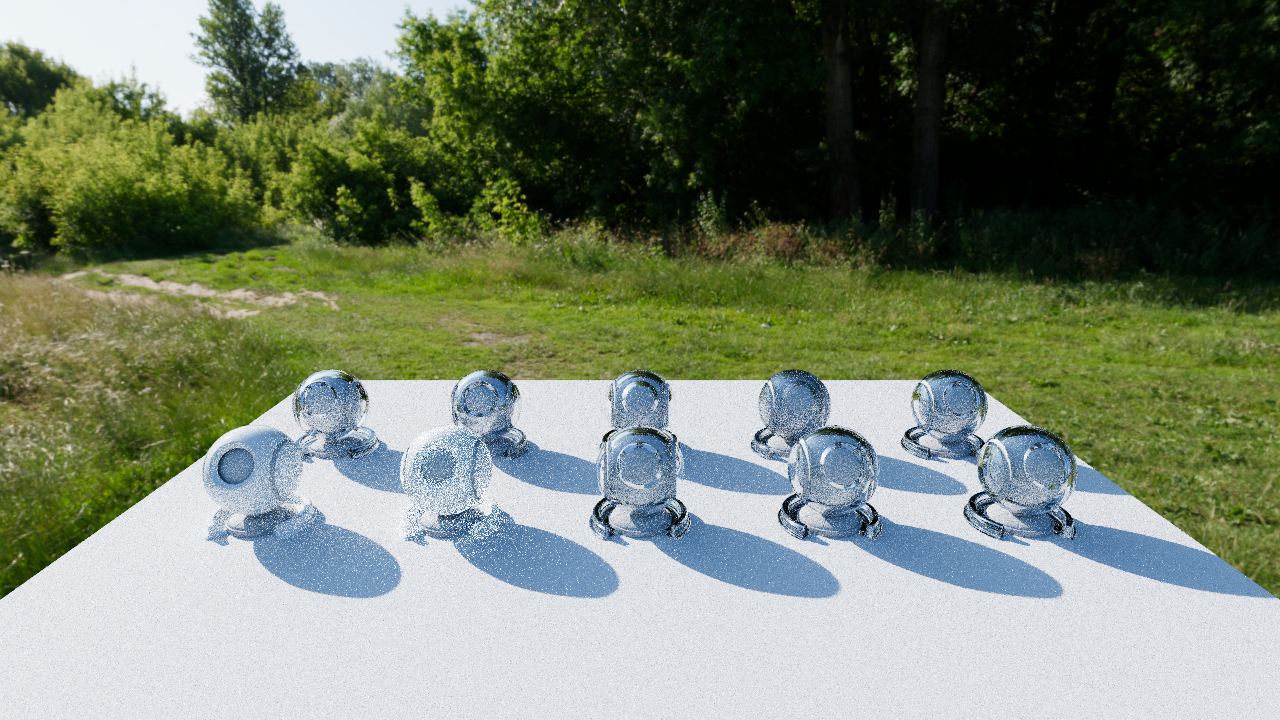
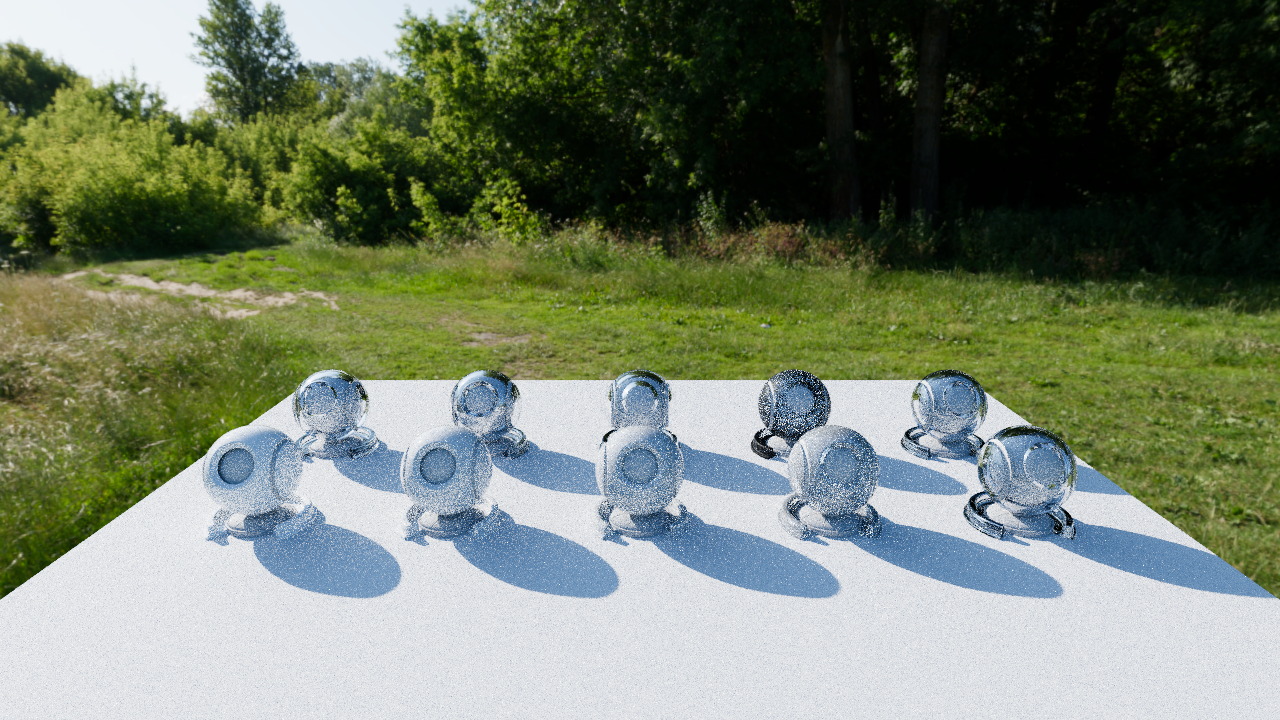
test: expand OpenPBR conformance and refresh gallery

Changed region(s): [[0.3125, 0.5194, 0.7188, 0.7944], [0.375, 0.55, 0.4062, 0.5806]]

diff --git a/tests/unit/test_bsdf.cpp b/tests/unit/test_bsdf.cpp
@@ -99,26 +99,25 @@ struct LobeWeights {
 
     const float opacity = sm::saturate(mat.opacityFlagsPad.x);
     const std::uint32_t flags = static_cast<std::uint32_t>(mat.opacityFlagsPad.y);
-    const bool glassMode = (flags == 2u);
 
     const float baseWeight = sm::saturate(mat.baseColorWeight.w);
     const float metalness = flags == 1u ? 1.0F : sm::saturate(mat.baseMetalnessDiffRough.x);
-    const float transmission = glassMode ? 1.0F : sm::saturate(mat.transmissionColorWeight.w);
+    const float transmission = sm::saturate(mat.transmissionColorWeight.w);
+    const bool glassMode = transmission >= 1.0F && metalness <= 0.0F && mat.specularRoughAnisoIor.x < 0.05F;
     weights.coatWeight = sm::saturate(mat.coatColorWeight.w);
     weights.fuzzWeight = sm::saturate(mat.fuzzColorWeight.w);
-    weights.subsurfaceWeight = sm::saturate(mat.subsurfaceColorWeight.w) * (1.0F - transmission);
-    const float opaqueBase = baseWeight * (1.0F - transmission);
-    weights.diffuseWeight = opaqueBase * (1.0F - metalness) * (1.0F - weights.subsurfaceWeight);
-    // G3 (spec): specular_weight modulates the dielectric F0/eta (see the modulated eta below), NOT
-    // the dielectric lobe weight; for the metal base it is applied directly as the metal BSDF weight.
-    // At specular_weight=0 the modulated eta→1 (no interface, zero reflection at all angles); the
-    // generalized-Schlick Fresnel keeps a grazing term at F0=0, so gate the dielectric lobe to vanish
-    // as specular_weight→0 (a no-op at the default specular_weight=1).
+    // OpenPBR 1.1.2: T mixes only the opaque/translucent substrates. The common dielectric
+    // reflection sits above that whole mixture. base_weight belongs to diffuse/metal, not SSS
+    // or the dielectric interface (MaterialX diffuse_bsdf.weight and metal_reflectivity).
+    const float dielectricBase = 1.0F - metalness;
+    const float opaqueBase = dielectricBase * (1.0F - transmission);
+    const float subsurface = sm::saturate(mat.subsurfaceColorWeight.w);
+    weights.subsurfaceWeight = opaqueBase * subsurface;
+    weights.diffuseWeight = baseWeight * opaqueBase * (1.0F - subsurface);
     const float specularParam = sm::saturate(mat.specularColorWeight.w);
-    const float dielectricPresence = sm::smoothstep(0.0F, 0.03F, specularParam);
-    weights.specularWeight = opaqueBase * (1.0F - metalness) * dielectricPresence;
+    weights.specularWeight = glassMode ? 0.0F : dielectricBase;
     weights.metalWeight = baseWeight * metalness * specularParam;
-    weights.transmissionWeight = baseWeight * transmission;
+    weights.transmissionWeight = dielectricBase * transmission;
 
     weights.diffuseTransWeight = 0.0F;
     const bool thinWalled = mat.opacityFlagsPad.w > 0.5F;
@@ -714,7 +713,6 @@ transmissionPdf(float eta, float alphaX, float alphaY, const sm::float3& wo, con
     sm::float3 result(0.0F);
     if (wiL.z > 0.0F && woL.z > 0.0F) {
         const sm::float3 dielectricF0 = iorToF0(eta);
-        sm::float3 glossyF0 = sm::lerp(dielectricF0 * specColor, baseColor, sm::saturate(mat.baseMetalnessDiffRough.x));
         const sm::float3 glossyF82 = specColor;
         const float specF0 = harmonia::utils::ColorSpace::luminance(dielectricF0 * specColor);
         auto underSpec = [&](float c) {
@@ -735,9 +733,13 @@ transmissionPdf(float eta, float alphaX, float alphaY, const sm::float3& wo, con
             result += baseLayerScale * diffuseUnderSpec * weights.subsurfaceWeight *
                       evalDiffuse(subsurfaceColor, diffuseRough, woL, wiL);
         }
-        if (weights.specularWeight > 0.0F || weights.metalWeight > 0.0F) {
-            result += baseLayerScale * (weights.specularWeight + weights.metalWeight) *
-                      evalReflectionMicrofacet(glossyF0, glossyF82, woL, wiL, alphaX, alphaY);
+        if (weights.specularWeight > 0.0F) {
+            result += baseLayerScale * weights.specularWeight *
+                      evalReflectionMicrofacet(dielectricF0 * specColor, glossyF82, woL, wiL, alphaX, alphaY);
+        }
+        if (weights.metalWeight > 0.0F) {
+            result += baseLayerScale * weights.metalWeight *
+                      evalReflectionMicrofacet(baseColor, glossyF82, woL, wiL, alphaX, alphaY);
         }
         if (weights.fuzzWeight > 0.0F) {
             result += weights.fuzzWeight * evalSheen(fuzzColor, sm::saturate(mat.fuzzRoughPad.x), woL, wiL);
@@ -950,6 +952,53 @@ TEST(Bsdf, OpenPbrLobeWeightsKeepOpacitySeparateFromTransmission) {
     EXPECT_FLOAT_EQ(opaqueWeights.specularWeight, cutoutWeights.specularWeight);
 }
 
+TEST(Bsdf, OpenPbrPartialTransmissionMatchesReferenceLobeMixture) {
+    struct Case {
+        float transmission;
+        float metalness;
+        float baseWeight;
+        float flags;
+        std::array<float, 4> expected; // diffuse, SSS, specular, transmission
+    };
+    const std::array cases{
+        Case{0.25F, 0.0F, 1.0F, 0.0F, {0.375F, 0.375F, 1.0F, 0.25F}},
+        Case{0.50F, 0.0F, 1.0F, 2.0F, {0.250F, 0.250F, 1.0F, 0.50F}},
+        Case{0.75F, 0.0F, 1.0F, 2.0F, {0.125F, 0.125F, 1.0F, 0.75F}},
+        Case{1.00F, 0.0F, 1.0F, 0.0F, {0.000F, 0.000F, 1.0F, 1.00F}}, // rough full glass keeps GGX R
+        Case{0.50F, 0.25F, 1.0F, 0.0F, {0.1875F, 0.1875F, 0.75F, 0.375F}},
+        Case{0.50F, 0.0F, 0.0F, 0.0F, {0.000F, 0.250F, 1.0F, 0.50F}},
+    };
+    for (const auto& c : cases) {
+        auto mat = makeMaterial();
+        mat.transmissionColorWeight = sm::float4(1.0F, 1.0F, 1.0F, c.transmission);
+        mat.baseMetalnessDiffRough.x = c.metalness;
+        mat.baseColorWeight.w = c.baseWeight;
+        mat.subsurfaceColorWeight = sm::float4(1.0F, 1.0F, 1.0F, 0.5F);
+        mat.opacityFlagsPad.y = c.flags;
+        const auto w = computeLobeWeights(mat);
+        SCOPED_TRACE(c.transmission);
+        EXPECT_NEAR(w.diffuseWeight, c.expected[0], 1.0e-6F);
+        EXPECT_NEAR(w.subsurfaceWeight, c.expected[1], 1.0e-6F);
+        EXPECT_NEAR(w.specularWeight, c.expected[2], 1.0e-6F);
+        EXPECT_NEAR(w.transmissionWeight, c.expected[3], 1.0e-6F);
+    }
+}
+
+TEST(Bsdf, OpenPbrBaseWeightDoesNotLeakIntoFractionalDielectricReflection) {
+    auto mixed = makeMaterial();
+    mixed.baseColorWeight = sm::float4(0.0F); // black base and no metal weight
+    mixed.baseMetalnessDiffRough.x = 0.5F;
+    auto dielectric = mixed;
+    dielectric.baseMetalnessDiffRough.x = 0.0F;
+    const sm::float3 n(0.0F, 0.0F, 1.0F), t(1.0F, 0.0F, 0.0F), b(0.0F, 1.0F, 0.0F);
+    const auto mixedValue = evalBSDF(mixed, n, n, n, t, b, n, t, b);
+    const auto dielectricValue = evalBSDF(dielectric, n, n, n, t, b, n, t, b);
+    ASSERT_GT(dielectricValue.y, 1.0e-8F);
+    EXPECT_NEAR(mixedValue.x, 0.5F * dielectricValue.x, 1.0e-6F);
+    EXPECT_NEAR(mixedValue.y, 0.5F * dielectricValue.y, 1.0e-6F);
+    EXPECT_NEAR(mixedValue.z, 0.5F * dielectricValue.z, 1.0e-6F);
+}
+
 TEST(Bsdf, OpenPbrThinWalledSubsurfaceSplitConservesWeight) {
     harmonia::GpuMaterial mat = makeMaterial();
     mat.subsurfaceColorWeight = sm::float4(0.0F, 0.0F, 0.0F, 0.8F);
@@ -998,8 +1047,8 @@ TEST(Bsdf, OpenPbrThinWalledSubsurfaceColorAppliesExactlyOnce) {
     const sm::float3 wi = sm::normalize(sm::float3(-0.35F, 0.10F, 0.930F));
 
     harmonia::GpuMaterial mat = makeMaterial();
-    mat.baseColorWeight.w = 0.0F; // no diffuse/specular base — isolate the thin-walled sheet so
-                                  // the eval is purely subsurface_color-driven
+    mat.baseColorWeight.w = 0.0F;               // no diffuse base; base_weight does not gate SSS
+    mat.specularColorWeight = sm::float4(0.0F); // isolate the sheet from dielectric reflection
     mat.subsurfaceColorWeight = sm::float4(0.25F, 0.25F, 0.25F, 0.8F);
     mat.opacityFlagsPad.w = 1.0F;
 

diff --git a/tests/module/test_frame_sampling.cpp b/tests/module/test_frame_sampling.cpp
@@ -70,6 +70,11 @@ class FrameSamplingFixture : public RtFixture {
         const auto mesh = m_scene.addMesh(deviceCtx(), commandPool(), std::move(data), {}, "test.emitter");
         ASSERT_NE(mesh, std::numeric_limits<std::uint32_t>::max());
         ASSERT_NE(m_scene.addInstance(mesh, {}, material), std::numeric_limits<std::uint32_t>::max());
+        auto sun = std::make_unique<harmonia::scene::DirectionalLight>();
+        sun->direction = {0, 0, -1};
+        sun->illuminance = 0.0F;
+        m_sun = sun.get();
+        ASSERT_NE(m_scene.addLight(std::move(sun)), std::numeric_limits<std::uint32_t>::max());
         ASSERT_EQ(m_scene.build(deviceCtx(), commandPool()), VK_SUCCESS);
         ASSERT_EQ(m_descriptors->updateSceneSet(deviceCtx(),
                                                 m_scene.instanceBuffer(),
@@ -144,10 +149,10 @@ class FrameSamplingFixture : public RtFixture {
         ASSERT_NE(m_readback.mapped, nullptr);
     }
 
-    void frame(float emission, std::uint32_t index, bool accumulate) {
+    void frame(float emission, std::uint32_t index, bool accumulate, float illuminance = 0.0F, float opacity = 1.0F) {
         auto cmd = commandPool().beginOneShot();
         ASSERT_TRUE(cmd.has_value());
-        if (index == 0) {
+        if (!m_imagesInitialized) {
             for (auto* image : {&m_hdr, &m_normal, &m_depth})
                 image->transition(*cmd,
                                   VK_IMAGE_LAYOUT_UNDEFINED,
@@ -156,9 +161,13 @@ class FrameSamplingFixture : public RtFixture {
                                   0,
                                   VK_PIPELINE_STAGE_2_RAY_TRACING_SHADER_BIT_KHR,
                                   VK_ACCESS_2_SHADER_READ_BIT | VK_ACCESS_2_SHADER_WRITE_BIT);
+            m_imagesInitialized = true;
         }
-        auto material = harmonia::scene::Material::emissive(sm::float3(1), emission).gpu();
+        auto material = harmonia::scene::Material::emissive(sm::float3(1), emission).opacity(opacity).gpu();
         vkCmdUpdateBuffer(*cmd, m_scene.materialBuffer().handle(), 0, sizeof(material), &material);
+        m_sun->illuminance = illuminance;
+        const auto sun = m_sun->toGpu();
+        vkCmdUpdateBuffer(*cmd, m_scene.lightBuffer().handle(), 0, sizeof(sun), &sun);
         const VkMemoryBarrier2 updated{.sType = VK_STRUCTURE_TYPE_MEMORY_BARRIER_2,
                                        .pNext = nullptr,
                                        .srcStageMask = VK_PIPELINE_STAGE_2_TRANSFER_BIT,
@@ -229,9 +238,11 @@ class FrameSamplingFixture : public RtFixture {
     hyperion::Scene m_scene;
     hyperion::PathTracer m_tracer;
     harmonia::renderer::Camera m_camera;
+    harmonia::scene::DirectionalLight* m_sun = nullptr;
     harmonia::core::Image m_hdr, m_normal, m_depth;
     harmonia::pipeline::AccumulationPass m_accumulation;
     Readback m_readback;
+    bool m_imagesInitialized = false;
     std::array<float, 3> m_last{};
 };
 
@@ -247,4 +258,19 @@ TEST_F(FrameSamplingFixture, SharedAccumulationIsTheOnlyHistoryOwner) {
     expectColor(0.25F);
     ASSERT_NO_FATAL_FAILURE(frame(0.75F, 1, true));
     expectColor(0.5F);
+}
+
+TEST_F(FrameSamplingFixture, EmissionAddsToTheOpenPbrSurfaceBsdf) {
+    ASSERT_NO_FATAL_FAILURE(frame(0.0F, 0, false, 1.0F));
+    const auto reflected = m_last;
+    ASSERT_NO_FATAL_FAILURE(frame(0.25F, 0, false, 1.0F));
+    for (std::size_t channel = 0; channel < m_last.size(); ++channel) {
+        SCOPED_TRACE(channel);
+        EXPECT_NEAR(m_last[channel] - reflected[channel], 0.25F * m_camera.physicalCamera().exposure(), 2.0e-5F);
+    }
+}
+
+TEST_F(FrameSamplingFixture, OpacityGateOwnsEmissionAsWellAsTheBsdf) {
+    ASSERT_NO_FATAL_FAILURE(frame(0.25F, 0, false, 0.0F, 0.0F));
+    expectColor(0.0F);
 }

diff --git a/PLAN.md b/PLAN.md
@@ -44,7 +44,7 @@ adopted.
 
 | Measurement | Value | What it measures |
 |-------------|-------|------------------|
-| Test suites | 80 of 80 pass (current working tree) | Unit, module and integration suites of this repository |
+| Test suites | 84 of 84 pass (current working tree) | Unit, module and integration suites of this repository |
 | Parity comparison | 14 of 14 scenes pass: `mean_diff` ≤ 120, Rel-MSE ≤ 250, SSIM ≥ 0.6, luminance-histogram correlation ≥ 0.8 (320×240; Hyperion 256 samples per pixel, Theia 256 frames) | Agreement between Theia and the Hyperion reference under Harmonia's thresholds; these thresholds belong to this budget |
 | Gallery | 30 of 30 PNGs byte-identical when regenerated at 1280×720 with 64 samples per pixel | Reproducibility of a capture and stability of the rendering path |
 | Vulkan validation over the full gallery | 60 of 60 runs without a validation message or application warning | Valid Vulkan usage on every scene |
@@ -93,7 +93,7 @@ before v0.6.19 are recorded only in the git history.
 
 | Version | Date | Content |
 |---------|------|---------|
-| Unreleased | — | Motion blur in sequence captures through Harmonia's `--shutter` and `--time-samples`: the accumulation is kept across the time samples of an output frame. Distance haze of a scene with a `[haze]` section: the ray-generation shader composites each sample through the shared `haze.slang` and the ray payload carries the distance to the primary surface. At 1024 samples per pixel on `haze`, the transmittance read back from five cubes matches the formula within 0.006. The lens glare of Harmonia (`--glare`) is in the PNG of a capture and leaves the EXR untouched, which is exact in Hyperion because a capture repeats exactly. An anisotropic material without a tangent map stretches its highlight along the texture coordinates (Harmonia's shared `surface.slang`); the gallery screenshots of `openpbr_specular` and `openpbr_metals` are rendered with the new frame |
+| Unreleased | — | The OpenPBR conformance mirror covers fractional transmission and verifies with the real ray tracer that emission adds to the coexisting BSDF and that an opacity pass-through emits nothing. Motion blur in sequence captures through Harmonia's `--shutter` and `--time-samples`: the accumulation is kept across the time samples of an output frame. Distance haze of a scene with a `[haze]` section: the ray-generation shader composites each sample through the shared `haze.slang` and the ray payload carries the distance to the primary surface. At 1024 samples per pixel on `haze`, the transmittance read back from five cubes matches the formula within 0.006. The lens glare of Harmonia (`--glare`) is in the PNG of a capture and leaves the EXR untouched, which is exact in Hyperion because a capture repeats exactly. An anisotropic material without a tangent map stretches its highlight along the texture coordinates (Harmonia's shared `surface.slang`); the gallery screenshots of `openpbr_specular` and `openpbr_metals` are rendered with the new frame |
 | v1.0.0 | 2026-11-26 | Stable baseline, released with Harmonia v1.0.0 and Aether v1.0.0. Aether declared as an external include boundary in the architecture contract; static-analysis findings in the manifold-sampling and BSDF tests removed; documentation-reference check in strict mode |
 | v0.12.0 | 2026-11-24 | Camera assembled by Harmonia's shared `CameraAssembly`; the rendered image is unchanged |
 | v0.11.0 | 2026-11-23 | Documentation aligned with the code; static-analysis repairs |
